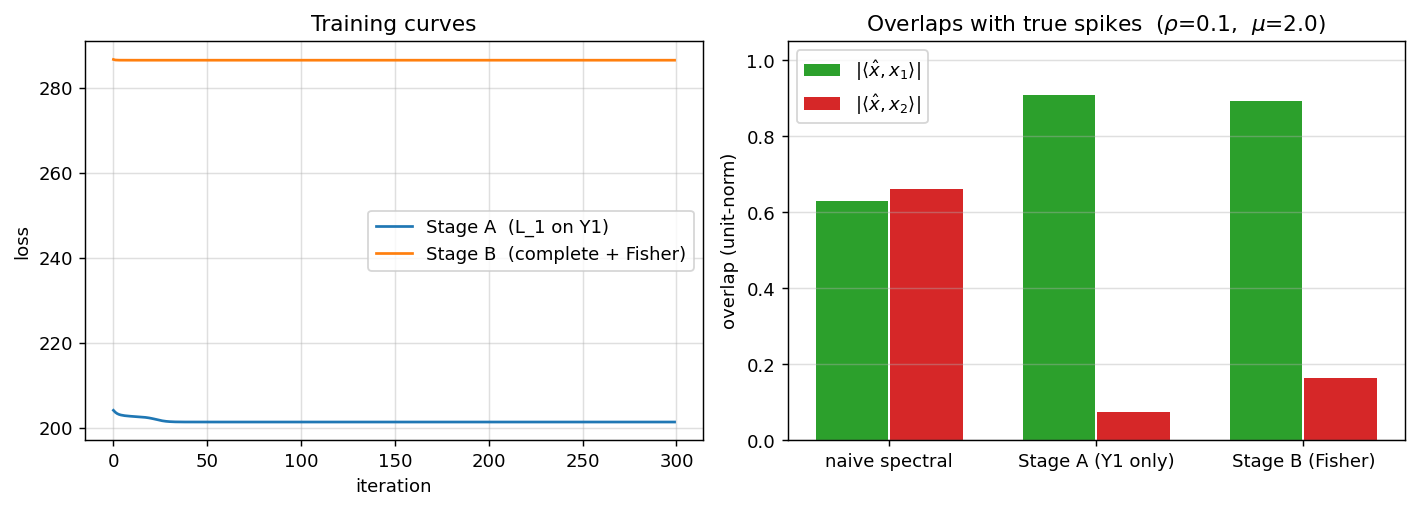
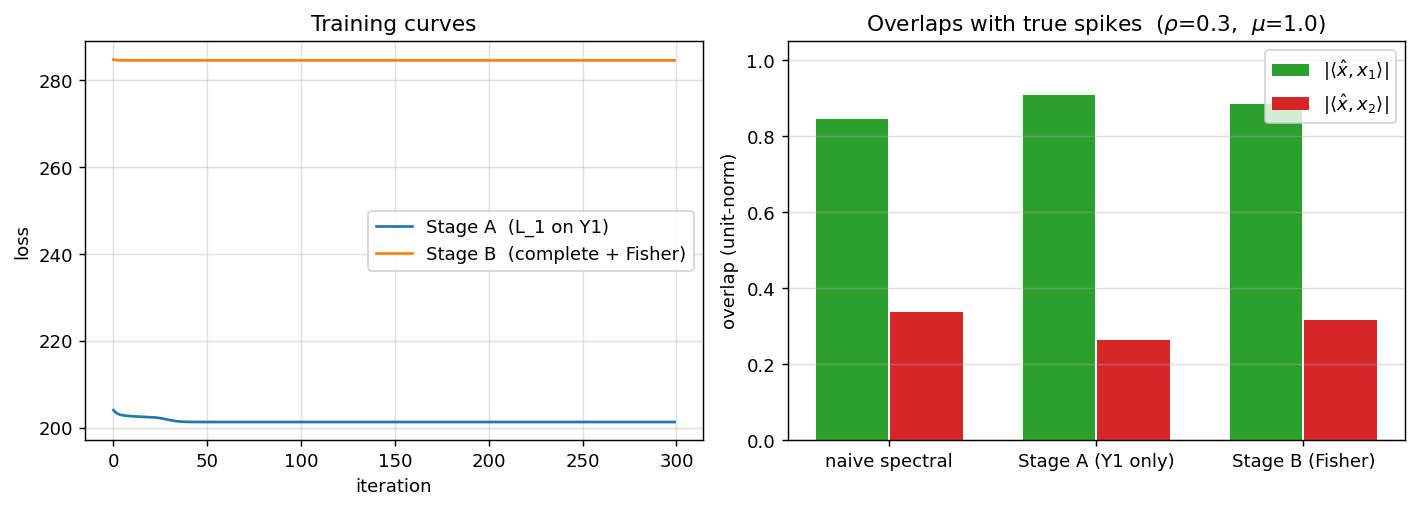
new code phase transition

diff --git a/spike_fisher/fisher_regularization.py b/spike_fisher/fisher_regularization.py
@@ -362,9 +362,9 @@ if __name__ == "__main__":
 
     # 1) single-run demo
     demo(
-        N=400, lambda1=2.5, lambda2=2.5,
-        rho=0.1, alpha=np.sqrt(0.5),
-        mu=2.0, seed=0,
+        N=400, lambda1=2.5, lambda2=0.8,
+        rho=0.3, alpha=np.sqrt(0.5),
+        mu=1.0, seed=0,
         save_path=os.path.join(plot_dir, "fisher_demo.png"),
     )
 
